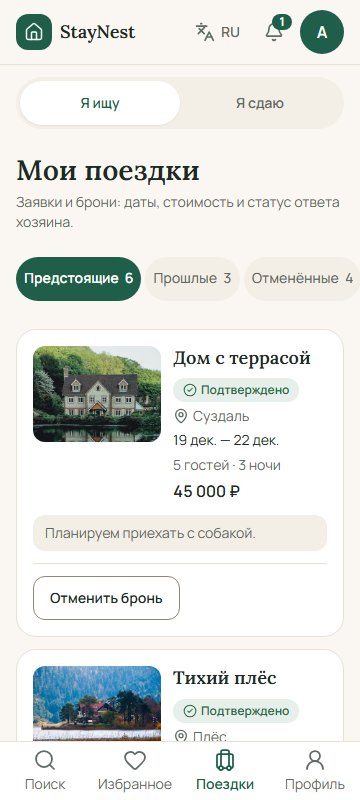
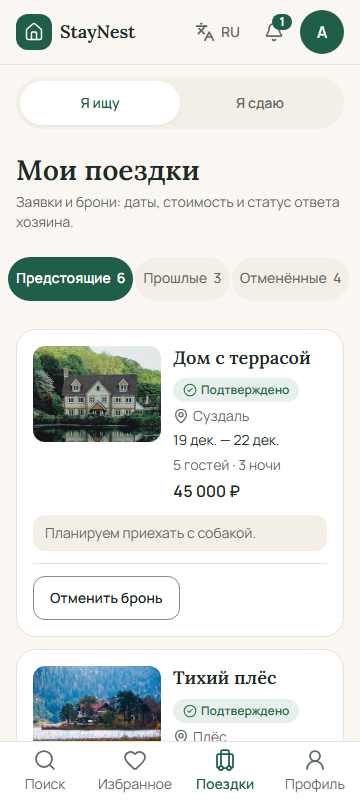
fix(web): keep trip tabs on one line at 360px

Changed region(s): [[0.0, 0.3125, 0.6417, 0.375], [0.6722, 0.3438, 0.9778, 0.375]]

diff --git a/apps/web/src/features/booking/components/BookingList.tsx b/apps/web/src/features/booking/components/BookingList.tsx
@@ -50,7 +50,7 @@ export function BookingTabs<T extends string>({
       aria-label={t('booking.tabs.label')}
       tabIndex={-1}
       onKeyDown={onKeyDown}
-      className="-mx-4 flex gap-1 overflow-x-auto px-4 pb-1 sm:mx-0 sm:px-0"
+      className="-mx-4 flex gap-0.5 overflow-x-auto px-2 pb-1 sm:mx-0 sm:px-0"
     >
       {tabs.map((tab) => (
         <button
